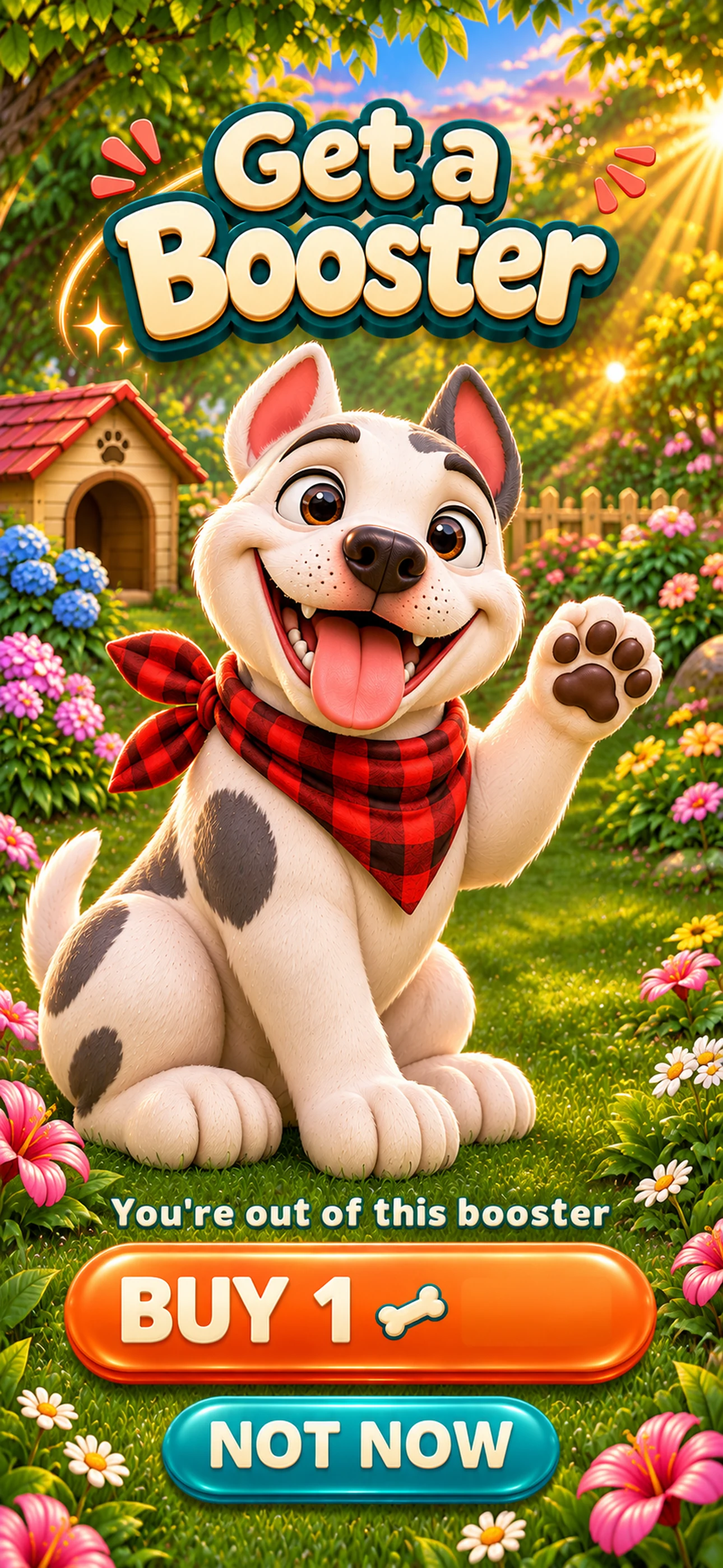
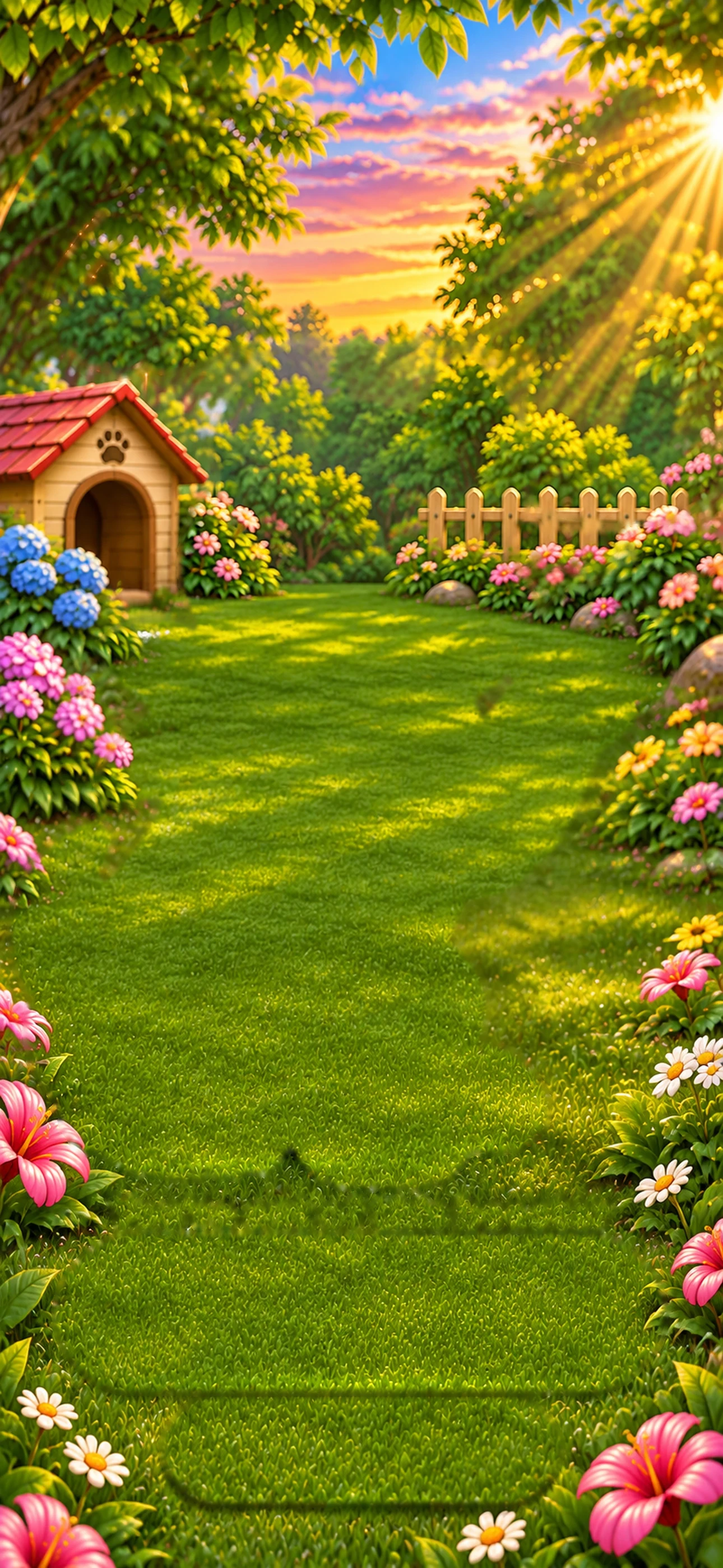
Soft Depth Get a Booster screen from the exact ChatGPT kit: Bobo, title, notice, pressed Buy / Not Now, live booster picture, name and price
Claude-Session: https://claude.ai/code/session_01HqXo8oXM9XTGkWGnUkjv9K

diff --git a/moments.js b/moments.js
@@ -4,12 +4,12 @@
    number is written live in the game's rounded lettering. */
 (function(){
 try{const q=new URLSearchParams(location.search);}catch(e){}   // approved: on for everyone
-const R='bovo11/mom/',V='?v=14',DW=1290,DH=2796;
+const R='bovo11/mom/',V='?v=15',DW=1290,DH=2796;
 const L={"ready":{"10_rambo":[0,1011,1237,902],"11_mr_bunny":[971,1200,274,410],"21_title":[247,252,777,279],"30_primary_button_blank":[6,2325,1284,283],"31_hard_blank":[501,647,287,109],"32_super_hard_blank":[427,647,435,109]},
  "pause":{"10_rambo":[321,844,969,785],"11_mr_bunny":[0,1229,661,404],"21_title":[0,157,1290,471],"52_labels":[179,1719,398,288],"60_warning":[161,2616,968,46],"sw_music_on":[629,1723,631,137],"sw_music_off":[629,1723,631,137],"sw_sound_on":[629,1888,631,136],"sw_sound_off":[629,1888,631,136],"bt_resume":[0,2080,1290,296],"bt_resume_p":[0,2080,1290,296],"bt_restart":[0,2357,822,223],"bt_restart_p":[0,2357,822,223],"bt_quit":[495,2356,795,224],"bt_quit_p":[495,2356,795,224]},
  "fail":{"10_rambo":[0,794,1048,1250],"11_mr_cardinal":[693,1419,517,512],"21_title":[0,234,1290,477],"22_life":[362,623,571,149],"bt_try_again":[0,2029,1290,329],"bt_try_again_p":[0,2029,1290,329],"bt_back_to_map":[8,2336,1275,269],"bt_back_to_map_p":[8,2336,1275,269]},
  "lives":{"10_cuddle":[0,721,1290,1259],"21_title":[0,167,1290,389],"30_timer_panel":[0,1908,1290,245],"bt_refill_lives":[0,2140,1290,289],"bt_refill_lives_p":[0,2140,1290,289],"bt_back_to_map":[2,2409,1287,214],"bt_back_to_map_p":[2,2409,1287,214]},
- "boost":{},
+ "boost":{"10_rambo":[0,580,1209,1550],"21_title":[0,134,1290,546],"22_notice":[187,2124,913,78],"40_paw":[953,594,317,298],"bt_buy":[0,2190,1290,305],"bt_buy_p":[0,2190,1290,305],"bt_not_now":[101,2483,1089,222],"bt_not_now_p":[101,2483,1089,222]},
  "bones":{},
  "lose":{"10_rambo":[0,567,1096,1140],"11_mr_cardinal":[772,1127,443,391],"21_title":[0,146,1290,487],"22_still_needed_title":[250,1728,791,153],"bt_buy_moves":[0,2127,1290,286],"bt_buy_moves_p":[0,2127,1290,286],"bt_give_up":[134,2407,1013,213],"bt_give_up_p":[134,2407,1013,213]}};
 const SD={ready_play:1};   // buttons from the Soft Depth kits (pressed art supplied)
@@ -26,7 +26,7 @@ const css=document.createElement('style');css.textContent=`
 #gm .bt.art img{filter:drop-shadow(0 calc(var(--s)*14px) calc(var(--s)*12px) rgba(40,25,0,.38))}
 #gm .tg{position:absolute;pointer-events:none;filter:drop-shadow(0 calc(var(--s)*8px) calc(var(--s)*8px) rgba(30,40,0,.35))}
 #gm .bt.dn{transform:scale(.95)}
-#gm .bt.sd img{filter:none}#gm .bt.sd2 img{inset:auto;filter:none}#gm .bt.sd2.dn{transform:none}#gm .bt.sd2 .pi{opacity:0}#gm .bt.sd2.dn .pi{opacity:1}#gm .bt.sd2.dn .ni{opacity:0}#gm .bt.sd.dn{transform:none}#gm .bt.sd .pi{opacity:0}#gm .bt.sd.dn .pi{opacity:1}#gm .bt.sd.dn .ni{opacity:0}
+#gm .bt.sd img{filter:none}#gm .bt.sd2 img{inset:auto;filter:none}#gm .bt.sd2.dn{transform:none}#gm .bt.sd2 .pi{opacity:0}#gm .bt.sd2.dn .pi{opacity:1}#gm .bt.sd2.dn .ni{opacity:0}#gm .bt.sd2.dn .bp{margin-top:calc(var(--s,1)*2px)}#gm .bt.sd.dn{transform:none}#gm .bt.sd .pi{opacity:0}#gm .bt.sd.dn .pi{opacity:1}#gm .bt.sd.dn .ni{opacity:0}
 #gm .zn.dn{transform:none;background:rgba(60,20,0,.18)}
 #gm .bt .lb{position:absolute;left:0;right:0;top:46%;transform:translateY(-50%);display:flex;align-items:center;justify-content:center;gap:.25em;white-space:nowrap;line-height:1;color:#fff1cb;font-weight:900;pointer-events:none}
 #gm .gr{position:absolute;display:flex;align-items:center;transform:translate(-50%,-50%);pointer-events:none}
@@ -179,15 +179,16 @@ function zoneAt(x,y,w,hh,fn,aria){const el=h('div','bt zn',stage);el.addEventLis
  items.push(()=>Object.assign(el.style,{left:x*s+'px',top:y*s+'px',width:w*s+'px',height:hh*s+'px',borderRadius:hh*s/2+'px'}));
  el.addEventListener('click',e=>{e.stopPropagation();if(once)return;once=true;if(fn(el)===false){once=false;return}snd('tap')});return el}
 window.gpBuy=function(bk){want('boost').then(()=>{open('boost','tap');const k='boost',P=window.Eco?Eco.PRICE.boost[bk]:50;
-  // booster on a soft golden glow beside Rambo's raised paw, its name under it
-  const gl=h('div','ly',stage);items.push(()=>Object.assign(gl.style,{left:(1112-240)*s+'px',top:(770-240)*s+'px',width:480*s+'px',height:480*s+'px',borderRadius:'50%',background:'radial-gradient(circle,rgba(255,236,160,.85) 0%,rgba(255,214,110,.45) 38%,rgba(255,200,90,0) 70%)'}));
-  const ic=h('img','ly',stage);ic.src='uikit/'+BI[bk]+'.webp?v=1';ic.alt='';items.push(()=>Object.assign(ic.style,{left:(1112-160)*s+'px',top:(745-160)*s+'px',width:320*s+'px',height:320*s+'px',objectFit:'contain',filter:`drop-shadow(0 ${10*s}px ${10*s}px rgba(30,20,0,.45))`}));
-  text(BN[bk],1100,970,96,{maxW:370});
-  const b=zoneAt(118,2213,1048,209,()=>{if(!Eco.spend(P)){close();needBones(P,()=>gpBuy(bk));return}
+  layer(k,'10_rambo');layer(k,'21_title','ttl');layer(k,'22_notice');
+  // the booster beside Bobo's raised paw (Paw Tap uses ChatGPT's own art), its name under it
+  if(bk===0)layer(k,'40_paw');else{const ic=h('img','ly',stage);ic.src='uikit/'+BI[bk]+'.webp?v=1';ic.alt='';
+   items.push(()=>Object.assign(ic.style,{left:959*s+'px',top:600*s+'px',width:305*s+'px',height:286*s+'px',objectFit:'contain',filter:`drop-shadow(0 ${10*s}px ${10*s}px rgba(30,20,0,.4))`}))}
+  text(BN[bk],1102,971,96,{maxW:370});
+  const b=sdBtn(k,'bt_buy',[111,2209,1069,261],()=>{if(!Eco.spend(P)){close();needBones(P,()=>gpBuy(bk));return}
     if(typeof SAVE!=='undefined'&&SAVE.boost){SAVE.boost[bk]=(SAVE.boost[bk]||0)+1;typeof save==='function'&&save()}else Eco.addBoost(bk,1);window.drawBoosters&&drawBoosters();close()},'Buy one '+BN[bk]+' for '+P+' bones');
-  const pr=h('div','tx',stage);items.push(()=>{Object.assign(pr.style,{left:957*s+'px',top:2318*s+'px'});GBBFont&&GBBFont.draw(pr,String(P),104*s,{style:'button'})});
-  zoneAt(292,2495,707,170,()=>{close()},'Not now');
-  show()})};
+  const pr=h('div','tx bp',b);items.push(()=>{Object.assign(pr.style,{left:(955-111)/1069*100+'%',top:(2324-2209)/261*100+'%'});GBBFont&&GBBFont.draw(pr,String(P),104*s,{style:'button'})});   // live price rides with the button
+  sdBtn(k,'bt_not_now',[302,2502,686,166],()=>{close()},'Not now');
+  later(1000,()=>b.classList.add('pulse'));show()})};
 // ---------- NOT ENOUGH BONES ----------
 window.needBones=function(need,back){want('bones').then(()=>{open('bones','tap');const have=window.Eco?Eco.bones():0;
   text('You have '+have+' / need '+need,645,1996,100,{maxW:900,style:'ink'});

diff --git a/game_new.html b/game_new.html
@@ -1,4 +1,4 @@
-<!doctype html><html><head><meta charset="utf-8"><meta name="gbb-build" content="1795339382"><script src="review_shim.js?v=4"></script><script src="economy.js?v=1"></script><meta name="viewport" content="width=device-width,initial-scale=1,maximum-scale=1,user-scalable=no,viewport-fit=cover"><title>Good Boy Bobo</title><script src="audio.js?v=27"></script><script src="motion.js?v=24"></script><script src="ui_life.js?v=12"></script><link rel="stylesheet" href="base.css?v=23"><link rel="stylesheet" href="uikit/kit.css?v=10">
+<!doctype html><html><head><meta charset="utf-8"><meta name="gbb-build" content="1795353613"><script src="review_shim.js?v=4"></script><script src="economy.js?v=1"></script><meta name="viewport" content="width=device-width,initial-scale=1,maximum-scale=1,user-scalable=no,viewport-fit=cover"><title>Good Boy Bobo</title><script src="audio.js?v=27"></script><script src="motion.js?v=24"></script><script src="ui_life.js?v=12"></script><link rel="stylesheet" href="base.css?v=23"><link rel="stylesheet" href="uikit/kit.css?v=10">
 <style>
 html,body{overscroll-behavior:none;touch-action:none;-webkit-user-select:none;user-select:none;-webkit-touch-callout:none}#app{touch-action:none}#app *{-webkit-touch-callout:none}
 #bgA,#bgB{position:absolute;inset:0;background-size:cover;background-position:center 42%;transition:opacity .9s}
@@ -739,7 +739,7 @@ $('pz').onclick=()=>{if(!S)return;showOv(`<img class="ttl2" src="a/L_t_paused.we
 window.T={get S(){return S},findMove,localMatch,trySwap,startLevel,LEVELS,setFast:v=>FAST=v,tapCell};
 document.body.dataset.bt=Q.get('bt')||'cream70';document.getElementById('topw').style.transform=`translate(10px,${Q.get('hu')??14}px) scale(.9)`;if(Q.get('dof'))document.body.dataset.dof=Q.get('dof');if(Q.get('calm'))document.body.dataset.calm=Q.get('calm');document.body.dataset.hud=Q.get('hud')||'smoke';
 addEventListener("load",()=>startLevel(Math.max(0,(+Q.get("lv")||1)-1)));
-</script><script src="game_fx.js?v=25"></script><script src="rambo_live.js?v=23"></script><script src="fontA.js?v=5"></script><script src="game2_new.js?v=25"></script><script src="uikit/kit.js?v=17"></script><script src="pop_kit.js?v=26"></script><script src="polish.js?v=5"></script><script src="frameless.js?v=22"></script><script src="rambo_react.js?v=12"></script><script src="rambo_live2.js?v=4"></script><script src="booster_tip.js?v=1"></script><script src="game_fx2.js?v=2"></script><script src="game_fx3.js?v=6"></script><script src="win_fs.js?v=13"></script><script src="moments.js?v=18"></script><script>(function(){const _sl=window.startLevel,lv0=+(new URLSearchParams(location.search).get('lv')||1);window.startLevel=function(n,o){if(Math.floor(n/10)!==Math.floor((lv0-1)/10))return location.replace('game_new.html?lv='+(n+1));return _sl(n,o)}})();
+</script><script src="game_fx.js?v=25"></script><script src="rambo_live.js?v=23"></script><script src="fontA.js?v=5"></script><script src="game2_new.js?v=25"></script><script src="uikit/kit.js?v=17"></script><script src="pop_kit.js?v=26"></script><script src="polish.js?v=5"></script><script src="frameless.js?v=22"></script><script src="rambo_react.js?v=12"></script><script src="rambo_live2.js?v=4"></script><script src="booster_tip.js?v=1"></script><script src="game_fx2.js?v=2"></script><script src="game_fx3.js?v=6"></script><script src="win_fs.js?v=13"></script><script src="moments.js?v=19"></script><script>(function(){const _sl=window.startLevel,lv0=+(new URLSearchParams(location.search).get('lv')||1);window.startLevel=function(n,o){if(Math.floor(n/10)!==Math.floor((lv0-1)/10))return location.replace('game_new.html?lv='+(n+1));return _sl(n,o)}})();
 (function(){
 // ===== Which background each chapter uses (easy to swap) =====
 // s01 Teal woodland · s02 Blue backyard · s03 Rooftops · s04 Streetlamps · s05 Mountains · s06 Rolling hills

diff --git a/bovo11/index.html b/bovo11/index.html
@@ -1,4 +1,4 @@
-<!doctype html><html><head><meta charset="utf-8"><meta name="gbb-build" content="1795339382"><script src="../review_shim.js?v=4"></script><script src="../economy.js?v=1"></script><script src="../col.js?v=1"></script><script src="../fontA.js?v=5"></script><script src="../audio.js?v=27"></script><script src="../ui_life.js?v=12"></script>
+<!doctype html><html><head><meta charset="utf-8"><meta name="gbb-build" content="1795353613"><script src="../review_shim.js?v=4"></script><script src="../economy.js?v=1"></script><script src="../col.js?v=1"></script><script src="../fontA.js?v=5"></script><script src="../audio.js?v=27"></script><script src="../ui_life.js?v=12"></script>
 <meta name="viewport" content="width=device-width,initial-scale=1,maximum-scale=1,viewport-fit=cover">
 <meta name="apple-mobile-web-app-capable" content="yes"><meta name="mobile-web-app-capable" content="yes"><meta name="apple-mobile-web-app-status-bar-style" content="black-translucent"><title>Good Boy Bobo — Home (new)</title>
 <style>

diff --git a/bovo11/settings.html b/bovo11/settings.html
@@ -1,4 +1,4 @@
-<!doctype html><html><head><meta charset="utf-8"><meta name="gbb-build" content="1795339382"><script src="../review_shim.js?v=4"></script><script src="../economy.js?v=1"></script><script src="../col.js?v=1"></script><script src="../fontA.js?v=5"></script><script src="../audio.js?v=27"></script><script src="../ui_life.js?v=12"></script>
+<!doctype html><html><head><meta charset="utf-8"><meta name="gbb-build" content="1795353613"><script src="../review_shim.js?v=4"></script><script src="../economy.js?v=1"></script><script src="../col.js?v=1"></script><script src="../fontA.js?v=5"></script><script src="../audio.js?v=27"></script><script src="../ui_life.js?v=12"></script>
 <meta name="viewport" content="width=device-width,initial-scale=1,maximum-scale=1,viewport-fit=cover">
 <meta name="apple-mobile-web-app-capable" content="yes"><meta name="mobile-web-app-capable" content="yes"><meta name="apple-mobile-web-app-status-bar-style" content="black-translucent">
 <title>Good Boy Bobo — Settings</title>

diff --git a/bovo11/friends.html b/bovo11/friends.html
@@ -1,4 +1,4 @@
-<!doctype html><html><head><meta charset="utf-8"><meta name="gbb-build" content="1795339382"><script src="../review_shim.js?v=4"></script><script src="../economy.js?v=1"></script><script src="../col.js?v=1"></script><script src="../fontA.js?v=5"></script><script src="../audio.js?v=27"></script><script src="../ui_life.js?v=12"></script>
+<!doctype html><html><head><meta charset="utf-8"><meta name="gbb-build" content="1795353613"><script src="../review_shim.js?v=4"></script><script src="../economy.js?v=1"></script><script src="../col.js?v=1"></script><script src="../fontA.js?v=5"></script><script src="../audio.js?v=27"></script><script src="../ui_life.js?v=12"></script>
 <meta name="viewport" content="width=device-width,initial-scale=1,maximum-scale=1,viewport-fit=cover">
 <meta name="apple-mobile-web-app-capable" content="yes"><meta name="mobile-web-app-capable" content="yes"><meta name="apple-mobile-web-app-status-bar-style" content="black-translucent">
 <title>Good Boy Bobo — Friends</title>

diff --git a/bovo11/toys.html b/bovo11/toys.html
@@ -1,4 +1,4 @@
-<!doctype html><html><head><meta charset="utf-8"><meta name="gbb-build" content="1795339382"><script src="../review_shim.js?v=4"></script><script src="../economy.js?v=1"></script><script src="../col.js?v=1"></script><script src="../fontA.js?v=5"></script><script src="../audio.js?v=27"></script><script src="../ui_life.js?v=12"></script>
+<!doctype html><html><head><meta charset="utf-8"><meta name="gbb-build" content="1795353613"><script src="../review_shim.js?v=4"></script><script src="../economy.js?v=1"></script><script src="../col.js?v=1"></script><script src="../fontA.js?v=5"></script><script src="../audio.js?v=27"></script><script src="../ui_life.js?v=12"></script>
 <meta name="viewport" content="width=device-width,initial-scale=1,maximum-scale=1,viewport-fit=cover">
 <meta name="apple-mobile-web-app-capable" content="yes"><meta name="mobile-web-app-capable" content="yes"><meta name="apple-mobile-web-app-status-bar-style" content="black-translucent">
 <title>Good Boy Bobo — Toy Box</title>

diff --git a/bovo11/shop.html b/bovo11/shop.html
@@ -1,4 +1,4 @@
-<!doctype html><html><head><meta charset="utf-8"><meta name="gbb-build" content="1795339382"><script src="../review_shim.js?v=4"></script><script src="../economy.js?v=1"></script><script src="../col.js?v=1"></script><script src="../fontA.js?v=5"></script><script src="../audio.js?v=27"></script><script src="../ui_life.js?v=12"></script>
+<!doctype html><html><head><meta charset="utf-8"><meta name="gbb-build" content="1795353613"><script src="../review_shim.js?v=4"></script><script src="../economy.js?v=1"></script><script src="../col.js?v=1"></script><script src="../fontA.js?v=5"></script><script src="../audio.js?v=27"></script><script src="../ui_life.js?v=12"></script>
 <meta name="viewport" content="width=device-width,initial-scale=1,maximum-scale=1,viewport-fit=cover">
 <meta name="apple-mobile-web-app-capable" content="yes"><meta name="mobile-web-app-capable" content="yes"><meta name="apple-mobile-web-app-status-bar-style" content="black-translucent">
 <title>Good Boy Bobo — Shop</title>

diff --git a/bovo10/index.html b/bovo10/index.html
@@ -1,5 +1,5 @@
 <!doctype html>
-<html><head><meta charset="utf-8"><meta name="gbb-build" content="1795339382"><script src="../review_shim.js?v=4"></script><script src="../seamloop.js?v=1"></script><script src="../economy.js?v=1"></script><script src="../col.js?v=1"></script><script src="../fontA.js?v=5"></script><script src="../audio.js?v=27"></script><script src="../ui_life.js?v=12"></script>
+<html><head><meta charset="utf-8"><meta name="gbb-build" content="1795353613"><script src="../review_shim.js?v=4"></script><script src="../seamloop.js?v=1"></script><script src="../economy.js?v=1"></script><script src="../col.js?v=1"></script><script src="../fontA.js?v=5"></script><script src="../audio.js?v=27"></script><script src="../ui_life.js?v=12"></script>
 <meta name="viewport" content="width=device-width,initial-scale=1,maximum-scale=1,viewport-fit=cover">
 <title>Good Boy Bobo — Backyard map</title>
 <style>

diff --git a/index.html b/index.html
@@ -1,4 +1,4 @@
-<!doctype html><html><head><meta charset="utf-8"><meta name="gbb-build" content="1795339382"><script src="review_shim.js?v=4"></script>
+<!doctype html><html><head><meta charset="utf-8"><meta name="gbb-build" content="1795353613"><script src="review_shim.js?v=4"></script>
 <meta name="viewport" content="width=device-width,initial-scale=1,maximum-scale=1,user-scalable=no,viewport-fit=cover">
 <meta name="apple-mobile-web-app-capable" content="yes"><meta name="mobile-web-app-capable" content="yes"><meta name="apple-mobile-web-app-status-bar-style" content="black-translucent">
 <title>Good Boy Bobo</title>

diff --git a/review.html b/review.html
@@ -1,4 +1,4 @@
-<!doctype html><html><head><meta charset="utf-8"><meta name="gbb-build" content="1795339382"><script src="review_shim.js?v=4"></script>
+<!doctype html><html><head><meta charset="utf-8"><meta name="gbb-build" content="1795353613"><script src="review_shim.js?v=4"></script>
 <meta name="viewport" content="width=device-width,initial-scale=1,viewport-fit=cover">
 <title>Good Boy Bobo — Review Build</title>
 <style>
